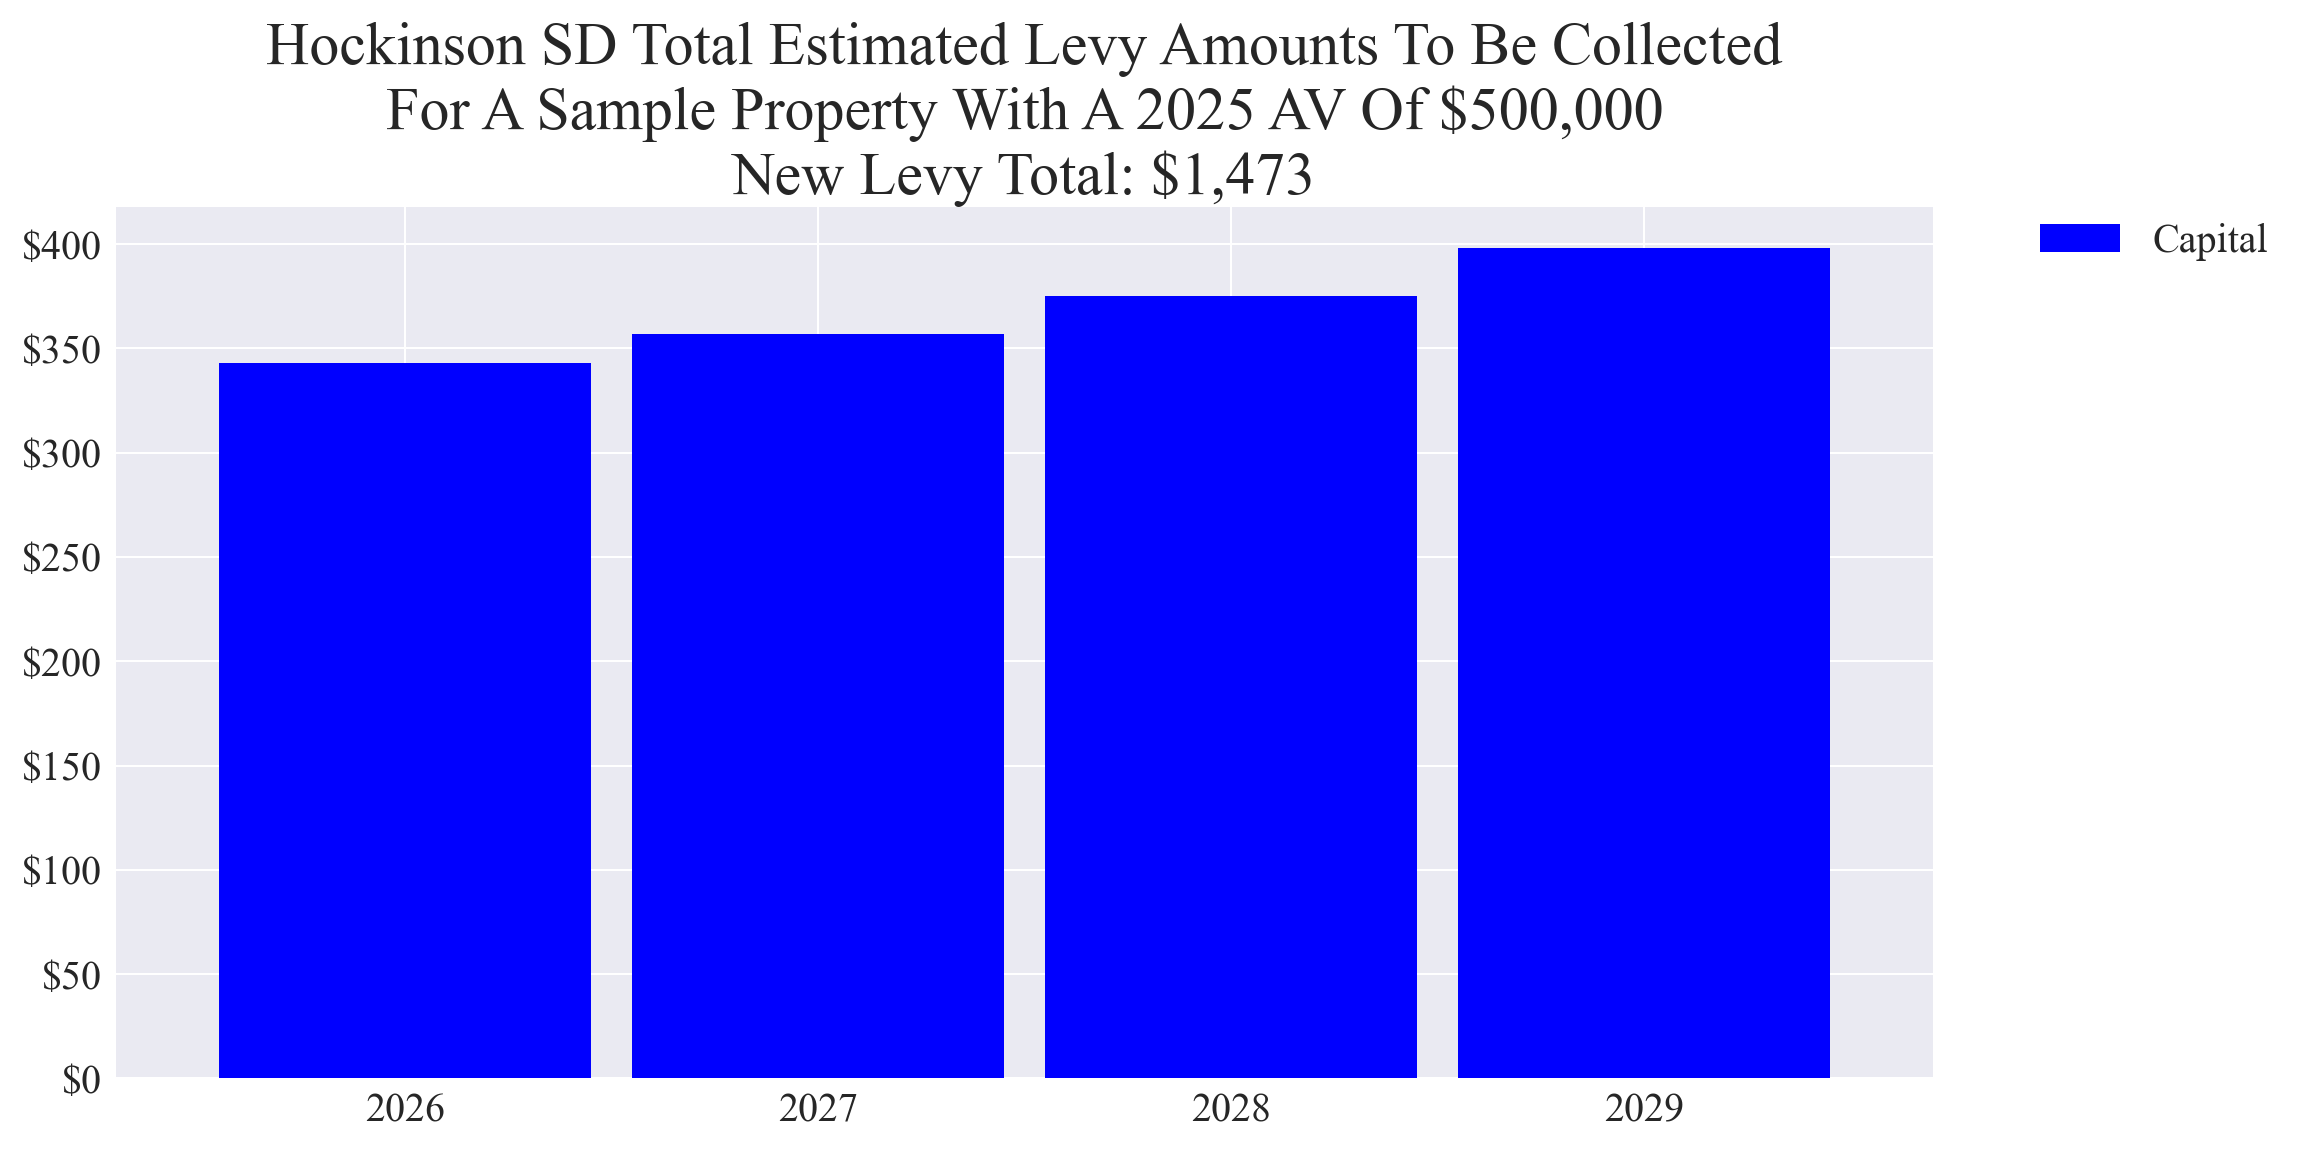
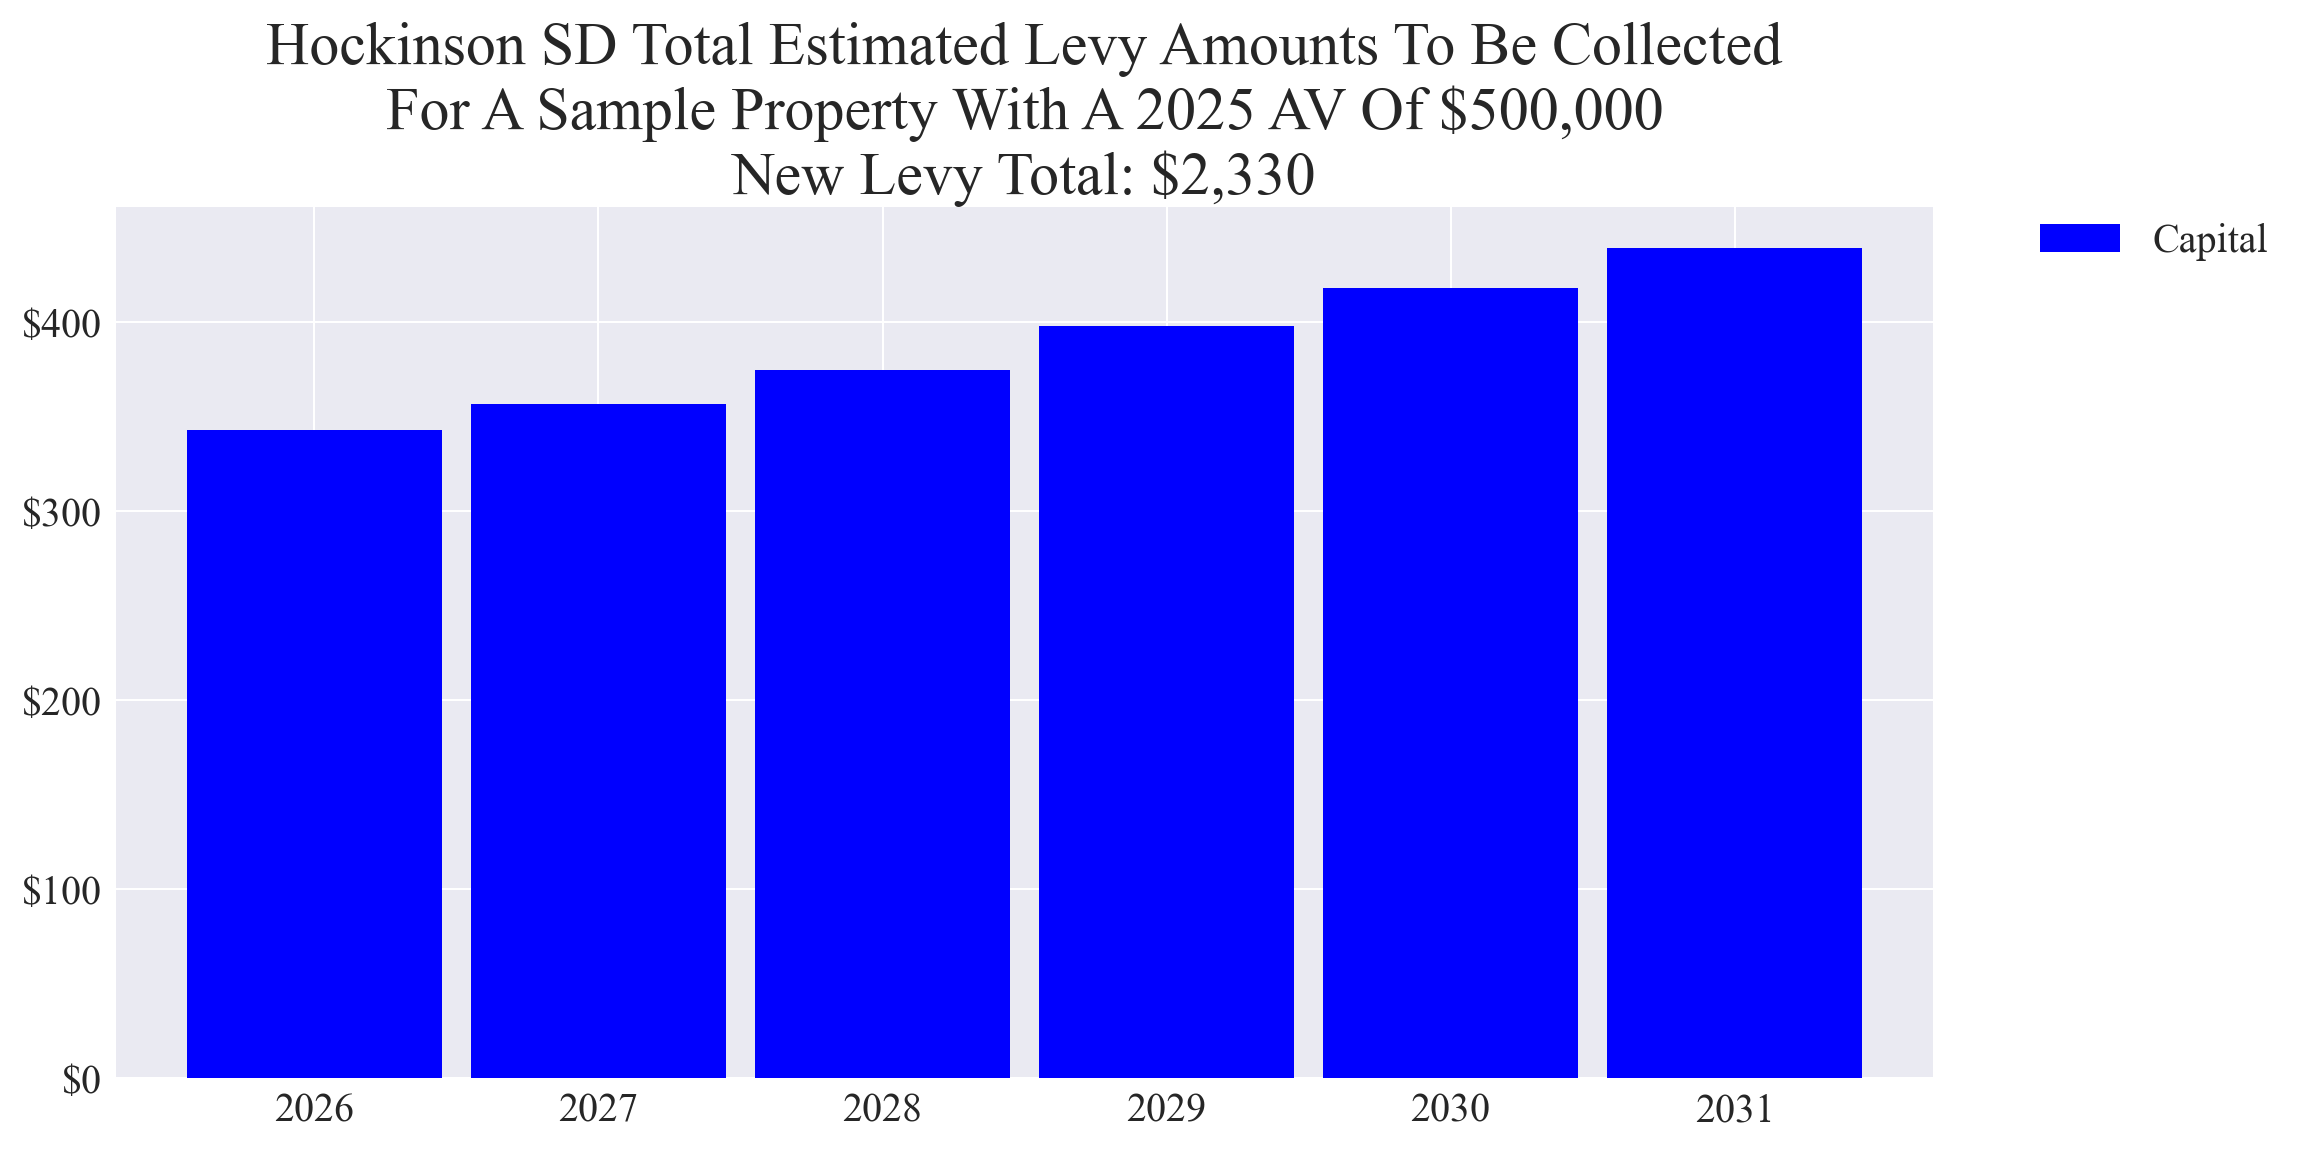
Updated elec 20250422
Corrected:
Hockinson SD info

diff --git a/_includes/cost_estimates/20250422/HockinsonCapitalLevyTable_20250422.html b/_includes/cost_estimates/20250422/HockinsonCapitalLevyTable_20250422.html
@@ -71,6 +71,8 @@ table, th, td {
 			['2027', 1950000, 2733304694, 0.0, 0, 0, 0.0, 0, 0, 0, 0.0, 0.0, 0],
 			['2028', 2050000, 2733304694, 0.0, 0, 0, 0.0, 0, 0, 0, 0.0, 0.0, 0],
 			['2029', 2175000, 2733304694, 0.0, 0, 0, 0.0, 0, 0, 0, 0.0, 0.0, 0],
+			['2030', 2285000, 2733304694, 0.0, 0, 0, 0.0, 0, 0, 0, 0.0, 0.0, 0],
+			['2031', 2400000, 2733304694, 0.0, 0, 0, 0.0, 0, 0, 0, 0.0, 0.0, 0],
 
 		]);
 		

diff --git a/_includes/cost_estimates/20250422/Hockinson_Capital_20250422_Enhanced.html b/_includes/cost_estimates/20250422/Hockinson_Capital_20250422_Enhanced.html
@@ -37,6 +37,8 @@
 			['2027', 1950000],
 			['2028', 2050000],
 			['2029', 2175000],
+			['2030', 2285000],
+			['2031', 2400000],
 
 		]);
 
